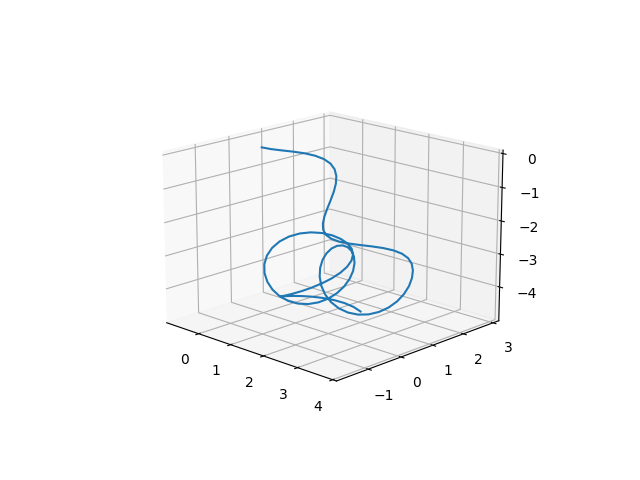
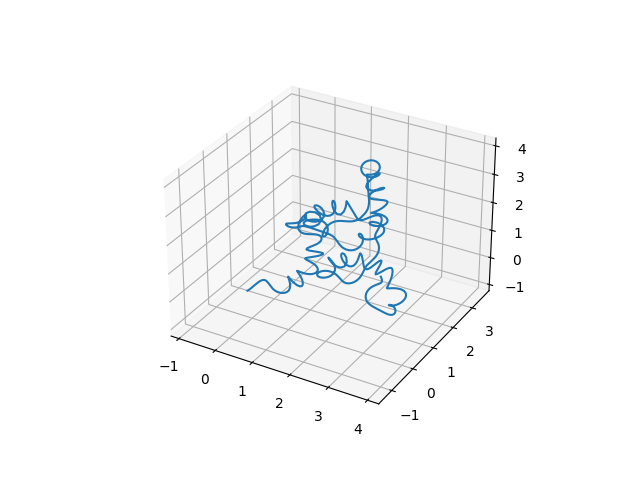
update readme

diff --git a/README.md b/README.md
@@ -1,8 +1,14 @@
 # mojagen
+
+## 概要
 mojamoja generator<br>
 もじゃもじゃを生成するpythonパッケージです。<br>
 未完成です。<br>
-ニッポニテス（いわゆる異常巻きアンモナイト）の殻を参考にしています。
+次の2段階を経てもじゃもじゃした曲線を出力します。   
+1. 右巻き螺旋、左巻き螺旋を組み合わせて曲線を生成
+1. 曲線を粗密ある螺旋に変換
+
+なお1段階目はニッポニテス（いわゆる異常巻きアンモナイト）の殻の生成メカニズムを参考にしています。<br>
 
 
 ## 依存
@@ -16,15 +22,17 @@ SciPy
 python3 mojagen.py
 ```
 以下、オプション引数です。<br>
-後述のもじゃもじゃ生成アルゴリズムの章
 |オプション引数|型|概要|
 |:--|:-:|:--|
 |-p<br>--plot|フラグ|グラフを表示|
 |--length|float|もじゃもじゃの長さ|
 |--sample|int|サンプリング点の数|
-|--torsion|float|もじゃもじゃの大まかな曲がり具合|
+|--torsion|float|大まかな曲がり具合|
+|--radius|float|細かな螺旋の半径|
+|--freq|float|細かな螺旋の周波数|
 
 ## 実行例
+いずれも```python3 mojagen.py -p --sample 1000 --torsion 0.2 --radius 0.2 --freq 7```で実行
 ![実行例1](./.image/moja1.png)<br>
 ![実行例2](./.image/moja2.png)<br>
 ![実行例3](./.image/moja3.png)<br>
